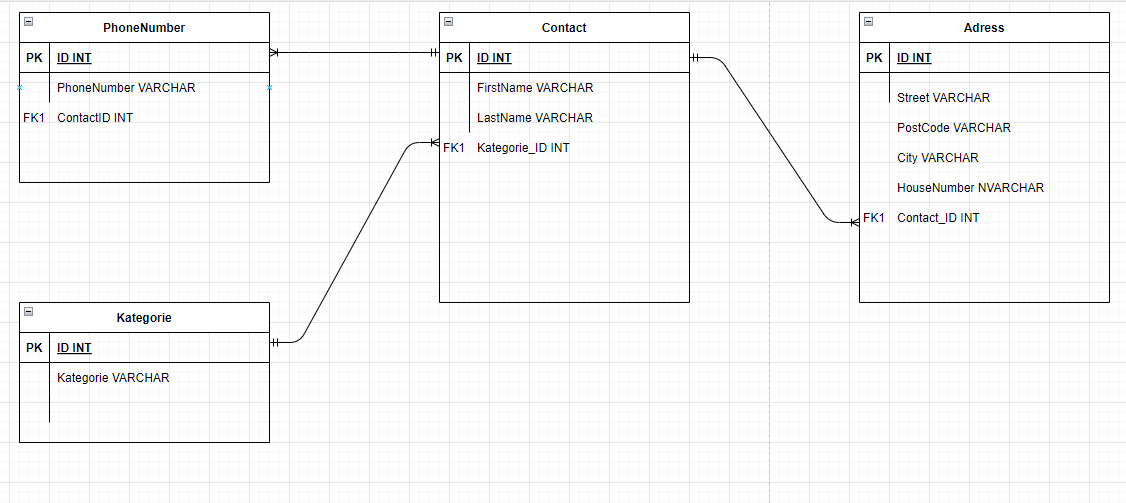
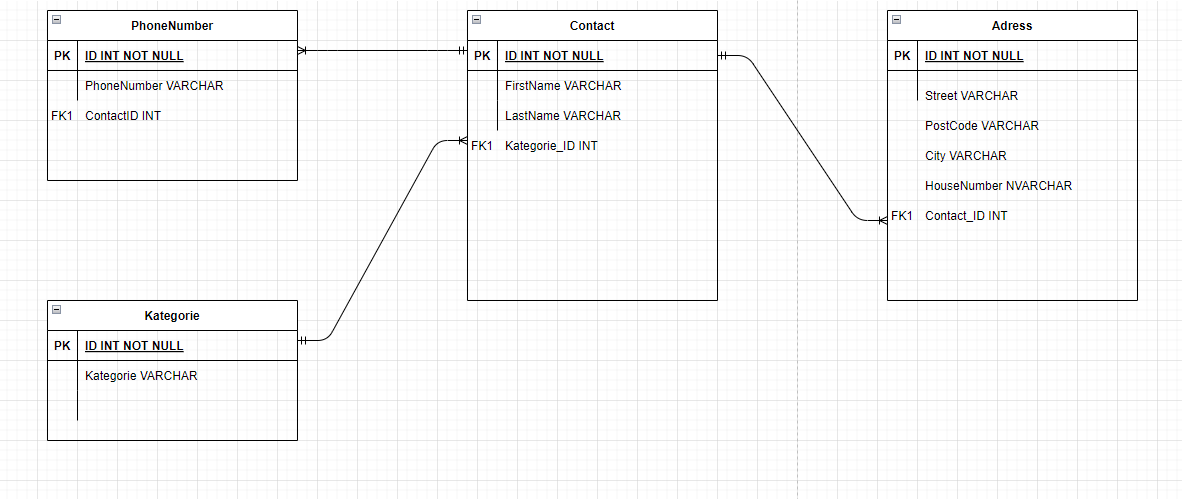
add_contact.py

diff --git a/adress/add_contact_gui.py b/adress/add_contact_gui.py
@@ -5,10 +5,9 @@ from tkinter import filedialog
 from PIL import Image, ImageTk
 import sqlite3
 from calculate_id import CalculateID
-from insert_query import Add
 from query import Ask
 
-class MainWin(Add, Ask, CalculateID):
+class MainWin(Ask):
 
     def __init__(self):
         self.connection = sqlite3.connect("database/adress.db")
@@ -21,8 +20,9 @@ class MainWin(Add, Ask, CalculateID):
         self.win.configure(background=self.co0)
         self.win.resizable(width=False, height=False)
 
-    
+
     def add_contact(self):
+        cur = self.connection.cursor()
         self.FName = self.entryFName.get()
         self.LName = self.entryName.get()
         self.Ort = self.entryOrt.get()
@@ -31,20 +31,20 @@ class MainWin(Add, Ask, CalculateID):
         self.Str = self.entryStr.get()
         self.Phone = self.entryPhone.get()
 
-        self.calculate_contact_id()
-        self.add_Name(self.My_ID, self.FName, self.LName)
-        self.add_Address(self.Str, self.PLZ, self.Ort, self.HNR, self.My_ID)
-        self.add_PhoneNumber(self.Phone, self.My_ID)
-        self.connection.commit()
-        self.prin_(self.FName, self.LName)
-       
+        self.FName = self.entryFName.get()
+        self.LName = self.entryName.get()
+        self.Ort = self.entryOrt.get()
+        self.PLZ = self.entryPLZ.get()
+        self.HNR = self.entryHNR.get()
+        self.Str = self.entryStr.get()
+        self.Phone = self.entryPhone.get()
 
-    def prin_(self, name, lname):
-        label = Label(self.win, text=" ", bg=self.co2, fg=self.co0, font=("Calibri 14 bold"))
-        label.place(x=20, y=510, width=800)
-        self.askin(name, lname)
-        return label.configure(text="Ihr Kontakt wurde erfolgreich hinzugefügt: \n"+ "|Vorname        |Nachname        |PLZ        |Ort        |Straße        |Haus-Nr.        |Tel.-Nr.       |\n"+str(self.contact[0]) + "             " + str(self.contact[1]) + "             "+ str(self.contact[2]) + "             "+ str(self.contact[3]) + "             "+ str(self.contact[4]) + "             "+ str(self.contact[5]) + "             "+ str(self.contact[6]))
-        
+        cur.execute("INSERT INTO Contact ('First_Name', 'LastName') values(?,?)", (self.FName, self.LName))
+        contact_id = cur.lastrowid
+        cur.execute("INSERT INTO Adress ('Street', 'PostCode', 'City', 'Housenumber', 'Contact_ID') values(?,?,?,?,?)", (self.Str, self.Ort, self.PLZ, self.HNR, contact_id))
+        cur.execute("INSERT INTO PhoneNumber ('PhoneNumber', 'Contact_ID') values(?,?)", (self.Phone, contact_id))
+        self.connection.commit()
+   
 
     def BrowsePhoto(self):
         self.entryPhoto.delete(0, END)
@@ -52,7 +52,7 @@ class MainWin(Add, Ask, CalculateID):
         return self.entryPhoto.insert(END, filename)
         
 
-    def Window(self):
+    def Window_Main(self):
         top = Frame(self.win, width=800, height=50, bg=self.co2)
         top.grid(row=0, column=0, padx=0, pady=1)
 
@@ -134,7 +134,7 @@ def Delete():
 
 def main():
     win = MainWin()
-    win.Window()
+    win.Window_Main()
     win.win.mainloop()
 
 if __name__ == "__main__":

diff --git a/adress/create_database_category.py b/adress/create_database_category.py
@@ -11,7 +11,7 @@ class Create_Contact():
         cur = self.connection.cursor()
         query = """
             CREATE TABLE Contact(
-            ID INT PRIMARY KEY,
+            ID INTEGER PRIMARY KEY AUTOINCREMENT,
             First_Name VARCHAR,
             LastName VARCHAR,
             Kategorie_ID INTEGER,
@@ -25,7 +25,7 @@ class Create_Contact():
         cur = self.connection.cursor()
         query = """
             CREATE TABLE PhoneNumber(
-            ID INT PRIMARY KEY,
+            ID INTEGER PRIMARY KEY AUTOINCREMENT,
             PhoneNumber VARCHAR,
             Contact_ID INT,
             FOREIGN KEY(Contact_ID) REFERENCES Contact(ID));
@@ -38,7 +38,7 @@ class Create_Contact():
         cur = self.connection.cursor()
         query = """
             CREATE TABLE Adress(
-            ID INT PRIMARY KEY,
+            ID INTEGER PRIMARY KEY AUTOINCREMENT,
             Street VARCHAR,
             PostCode VARCHAR,
             City VARCHAR,
@@ -54,7 +54,7 @@ class Create_Contact():
         cur = self.connection.cursor()
         query = """
             CREATE TABLE Kategorie(
-            ID INT PRIMARY KEY,
+            ID INTEGER PRIMARY KEY AUTOINCREMENT,
             Kategorie VARCHAR);
         """ 
         cur.execute(query)

diff --git a/adress/create_database.py b/adress/create_database.py
@@ -11,7 +11,7 @@ class Create():
         cur = self.connection.cursor()
         query = """
             CREATE TABLE Contact(
-            ID INT PRIMARY KEY,
+            ID INTEGER PRIMARY KEY AUTOINCREMENT,
             First_Name VARCHAR,
             LastName VARCHAR);
         """ 
@@ -23,7 +23,7 @@ class Create():
         cur = self.connection.cursor()
         query = """
             CREATE TABLE PhoneNumber(
-            ID INT PRIMARY KEY,
+            ID INTEGER PRIMARY KEY AUTOINCREMENT,
             PhoneNumber VARCHAR,
             Contact_ID INT,
             FOREIGN KEY(Contact_ID) REFERENCES Contact(ID));
@@ -36,7 +36,7 @@ class Create():
         cur = self.connection.cursor()
         query = """
             CREATE TABLE Adress(
-            ID INT PRIMARY KEY,
+            ID INTEGER PRIMARY KEY AUTOINCREMENT,
             Street VARCHAR,
             PostCode VARCHAR,
             City VARCHAR,

diff --git a/adress/insert_query.py b/adress/insert_query.py
@@ -7,7 +7,6 @@ class Add(CalculateID):
         self.connection = sqlite3.connect("database/adress.db")
 
     def add_Name(self, ID, first_name, last_name):
-        """This method is used for inserting a first- and last name in contact table."""
         cur = self.connection.cursor()
         query = """
             INSERT INTO Contact(ID, First_Name, LastName)
@@ -18,7 +17,6 @@ class Add(CalculateID):
 
 
     def add_Address(self, street, post_code, city, house_number, Contact_ID):
-        """This method is used for inserting a adress in adress table."""
         cur = self.connection.cursor()
         self.calculate_adress_id()
 
@@ -31,7 +29,6 @@ class Add(CalculateID):
 
 
     def add_PhoneNumber(self, phone_number, Contact_ID):
-        """This method is used for add a phonenumber in phonennumber table."""
         cur = self.connection.cursor()
         self.calculate_phone_id()
         query = """
